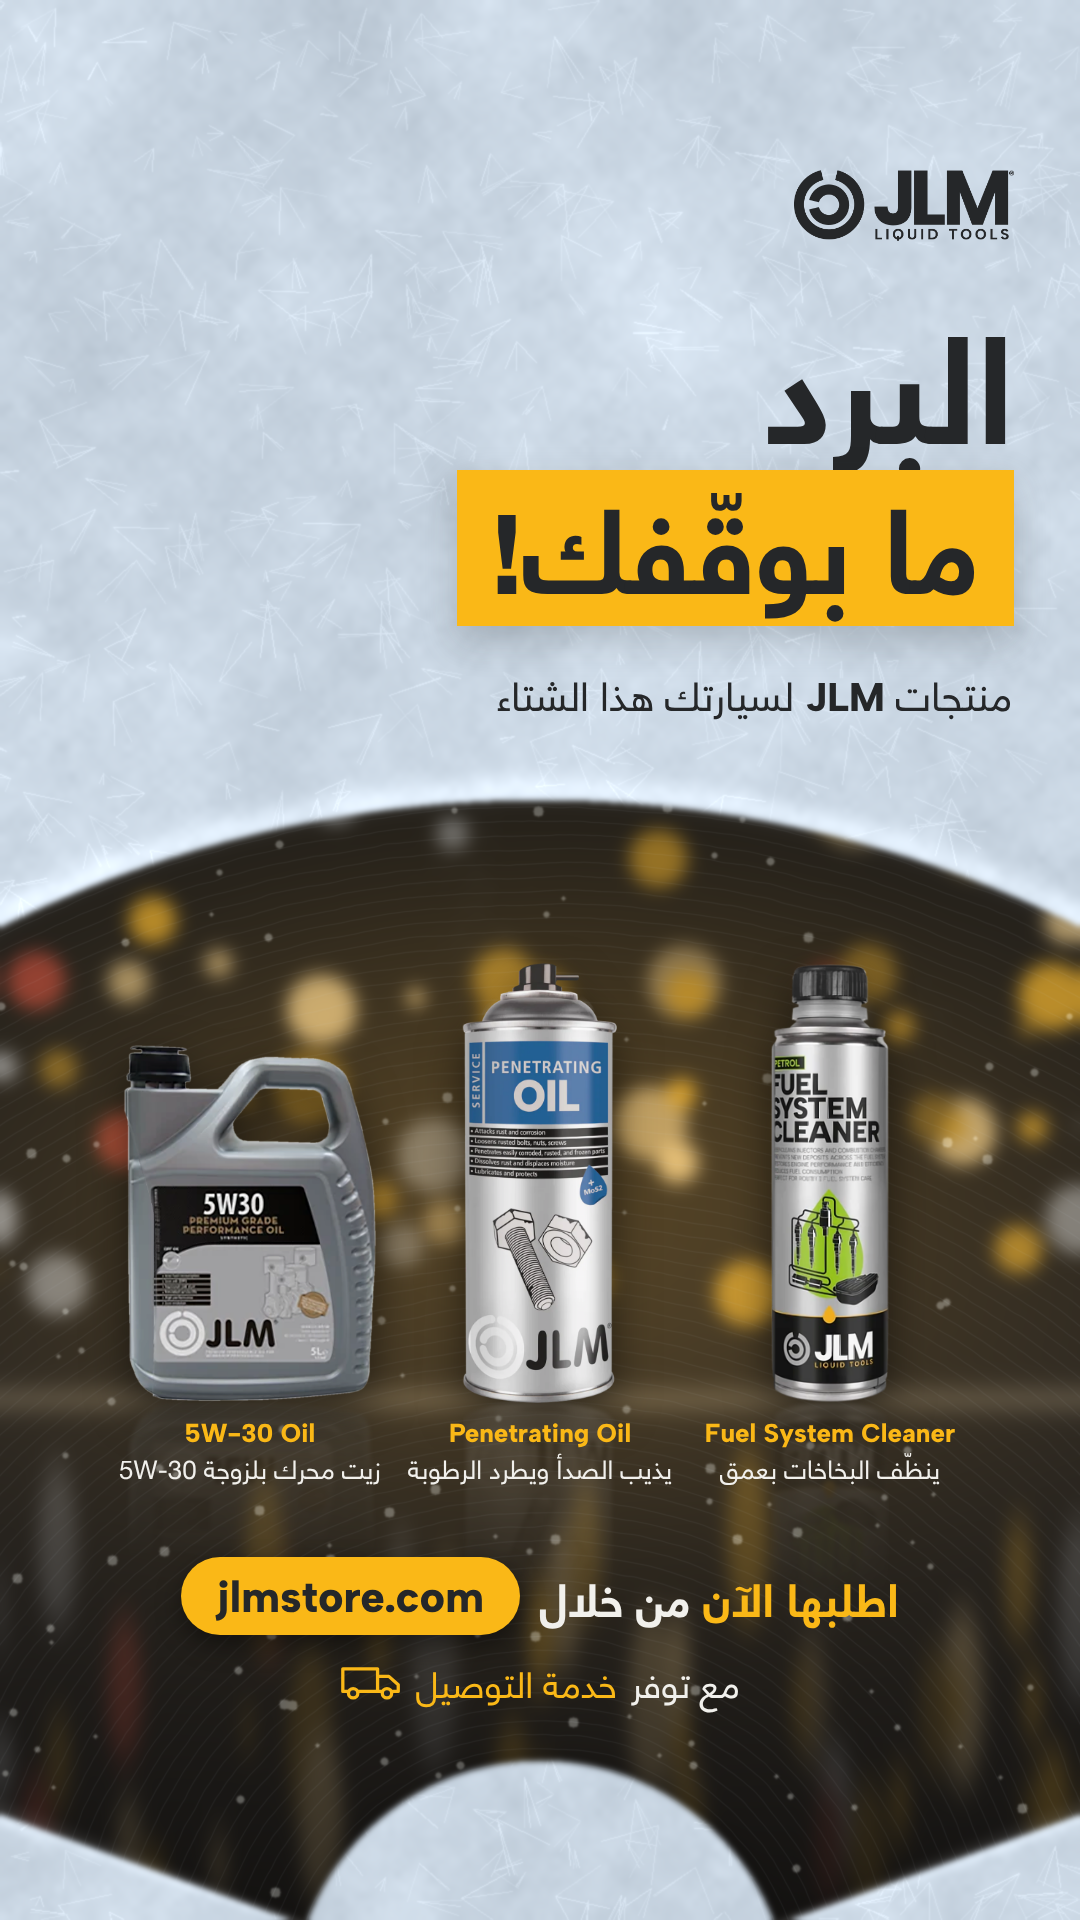
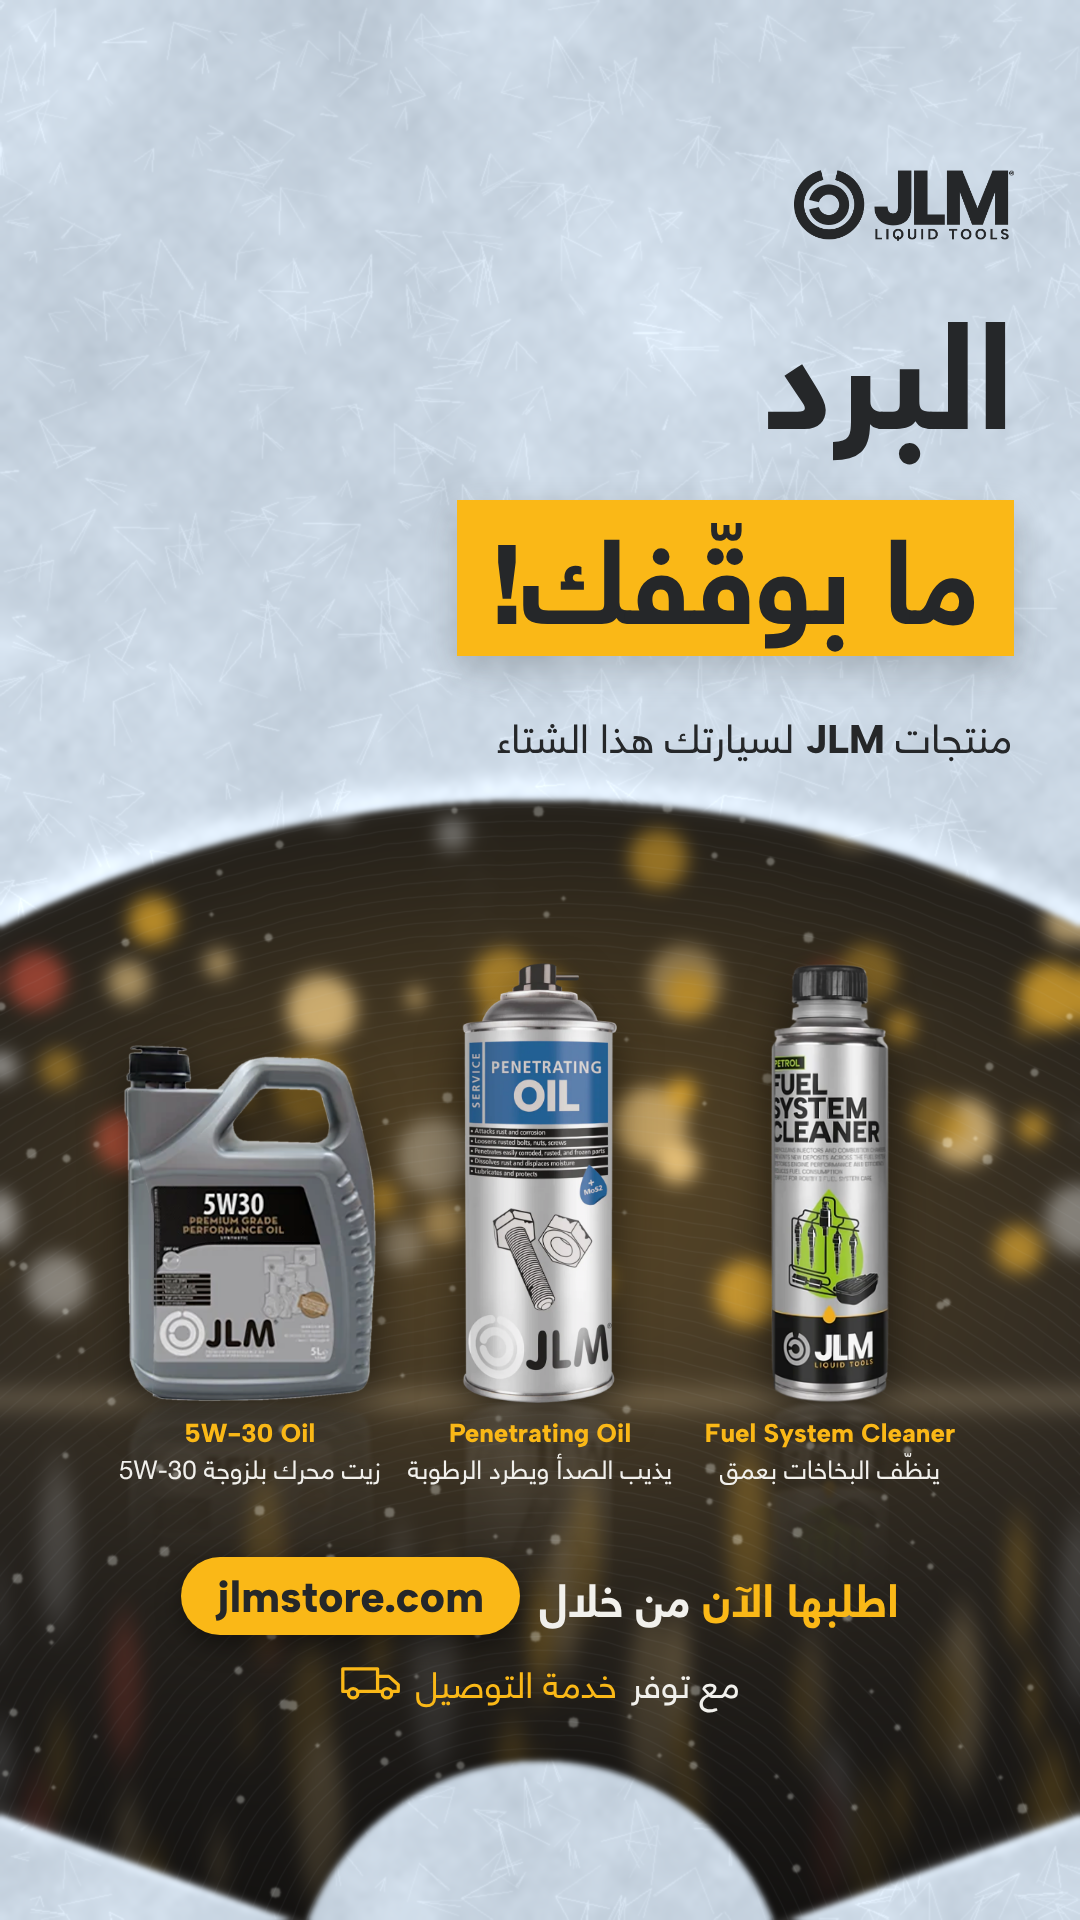
Winter wiper story: separate «البرد» from the «ما بوقّفك!» tag (no overlap)
Claude-Session: https://claude.ai/code/session_015ECzJR8MqpLz9gQAHyfRbz

Changed region(s): [[0.4278, 0.1875, 0.9472, 0.4062], [0.8861, 0.1562, 0.9472, 0.1875]]

diff --git a/marketing/social/jlm-winter-wiper-story/scripts/build.py b/marketing/social/jlm-winter-wiper-story/scripts/build.py
@@ -143,10 +143,10 @@ html,body{{width:{W}px;height:{H}px;overflow:hidden;background:#252729}}
 .ar{{font-family:HNA;direction:rtl}}
 .lat{{font-family:Albert;font-weight:800;direction:ltr;unicode-bidi:isolate}}
 #logo{{position:absolute;right:66px;top:170px;width:220px}}
-#h1{{position:absolute;right:66px;top:300px;font-family:HNA;font-weight:700;font-size:150px;line-height:1;color:#252729;direction:rtl}}
-#h2{{position:absolute;right:66px;top:470px;background:#FAB817;padding:8px 34px 24px;font-family:HNA;font-weight:700;font-size:118px;
+#h1{{position:absolute;right:66px;top:285px;font-family:HNA;font-weight:700;font-size:150px;line-height:1;color:#252729;direction:rtl}}
+#h2{{position:absolute;right:66px;top:500px;background:#FAB817;padding:8px 34px 24px;font-family:HNA;font-weight:700;font-size:118px;
      line-height:1.05;color:#252729;direction:rtl;box-shadow:0 14px 34px rgba(37,39,41,.22)}}
-#sub{{position:absolute;right:68px;top:648px;font-size:40px;color:#252729;font-weight:400}}
+#sub{{position:absolute;right:68px;top:690px;font-size:40px;color:#252729;font-weight:400}}
 #sub b{{font-family:Albert;font-weight:800}}
 .prod{{position:absolute;transform:translateX(-50%);filter:drop-shadow(0 18px 22px rgba(0,0,0,.55))}}
 .refl{{transform:translateX(-50%) scaleY(-1);opacity:.16;filter:blur(2px);
